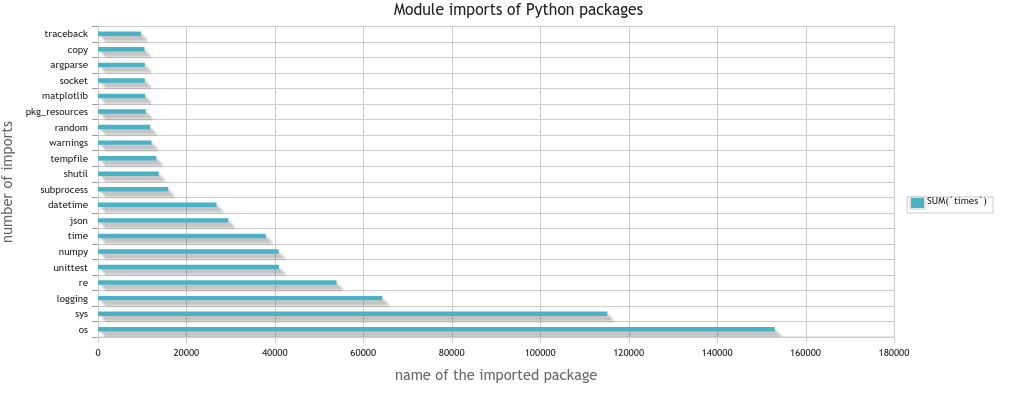
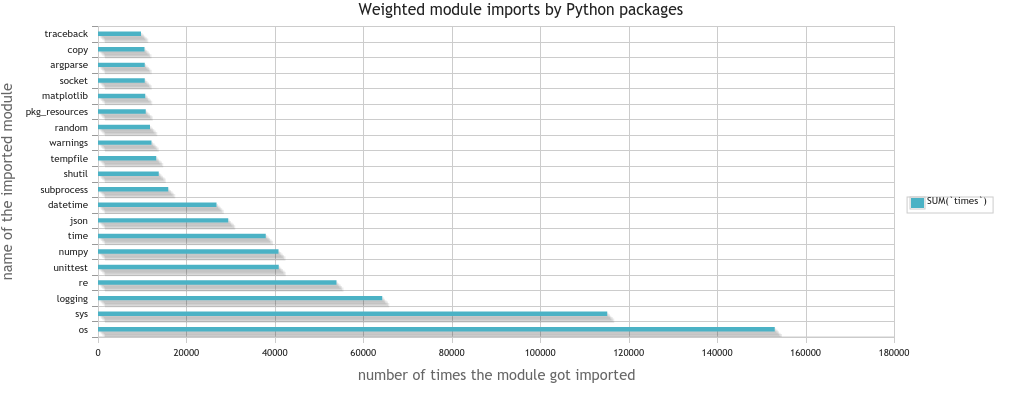
Update PyPI analysis article draft

Changed region(s): [[0.335, 0.0, 0.6699, 0.0609], [0.0, 0.2132, 0.0305, 0.7005], [0.335, 0.9442, 0.6395, 0.9746]]

diff --git a/_drafts/2015-12-07-analyzing-pypi-metadata-2.md b/_drafts/2015-12-07-analyzing-pypi-metadata-2.md
@@ -33,57 +33,8 @@ As I am pretty sure there are some malicious packages in the repository
 
 ## Most common single dependency
 
-
-
-### Weighted
-How often gets a single module included over all packages?
-
-```sql
-SELECT
-    `packages`.`name`,
-    SUM(`packages`)
-FROM
-    `dependencies`
-JOIN
-    `packages` ON `needs_package` = `packages`.`id`
-GROUP BY
-    `needs_package`
-ORDER BY
-    SUM(`times`) DESC
-LIMIT 20
-```
-
-Three minutes later I've got the result:
-
-
-{% caption align="aligncenter" width="500" alt="Number of imports of Python packages" text="Number of imports of Python packages" url="../images/2015/12/pypi-imported-packages.png" %}
-
-
-
-If I'm only interested in the packages which are on PyPI, hence not system
-packages, I execute the following query:
-
-```sql
-SELECT
-    `packages`.`name`,
-    SUM(`times`)
-FROM
-    `dependencies`
-JOIN
-    `packages` ON `needs_package` = `packages`.`id`
-WHERE
-    `on_pypi` = 1
-GROUP BY
-    `needs_package`
-ORDER BY
-    SUM(`times`) DESC
-LIMIT 20
-```
-
-which gives me about 2&nbsp;seconds later the following result:
-
-{% caption align="aligncenter" width="500" alt="Number of imports of Python packages, excluding system packages" text="Number of imports of Python packages, excluding system packages" url="../images/2015/12/pypi-imported-packages-excluding-system.png" %}
-
+One can see dependencies as being weighted by the number of times a package
+imports the package.
 
 ### Non-weighted
 
@@ -127,4 +78,146 @@ LIMIT 20
 
 which gives
 
-{% caption align="aligncenter" width="500" alt="This bar chart displays which Python modules (excluding system modules) get imported by most Python packages" text="This bar chart displays which Python modules (excluding system modules) get imported by most Python packages" url="../images/2015/12/pypi-imported-packages-excluding-system-count.png" %}
+<figure style="width: 510px" class="wp-caption aligncenter">
+    <img src="../images/2015/12/pypi-imported-packages-excluding-system-count.png" alt="This bar chart displays which Python modules (excluding system modules) get imported by most Python packages" />
+    <figcaption>This bar chart displays which Python modules (excluding system modules) get imported by most Python packages</figcaption>
+</figure>
+
+
+### Weighted
+How often gets a single module included over all packages?
+
+```sql
+SELECT
+    `packages`.`name`,
+    SUM(`times`)
+FROM
+    `dependencies`
+JOIN
+    `packages` ON `needs_package` = `packages`.`id`
+GROUP BY
+    `needs_package`
+ORDER BY
+    SUM(`times`) DESC
+LIMIT 20
+```
+
+2&nbsp;seconds later I've got the result:
+
+
+{% caption align="aligncenter" width="500" alt="Number of imports of Python packages" text="Number of imports of Python packages" url="../images/2015/12/pypi-imported-packages.png" %}
+
+
+
+If I'm only interested in the packages which are on PyPI, hence not system
+packages, I execute the following query:
+
+```sql
+SELECT
+    `packages`.`name`,
+    SUM(`times`)
+FROM
+    `dependencies`
+JOIN
+    `packages` ON `needs_package` = `packages`.`id`
+WHERE
+    `on_pypi` = 1
+GROUP BY
+    `needs_package`
+ORDER BY
+    SUM(`times`) DESC
+LIMIT 20
+```
+
+which gives me about 2&nbsp;seconds later the following result:
+
+{% caption align="aligncenter" width="500" alt="Number of imports of Python packages, excluding system packages" text="Number of imports of Python packages, excluding system packages" url="../images/2015/12/pypi-imported-packages-excluding-system.png" %}
+
+
+## Non-functional packages
+
+Although there are many packages for Python which are very usefull, there are
+also quite a lot which are not usefull at all. One possibility to identify such
+packages is by checking which packages get neither used by others nor use
+other packages
+
+```sql
+SELECT
+    `packages`.`id`, `name`
+FROM `packages`
+WHERE
+    `id` in (
+        SELECT DISTINCT
+            `dependencies`.`package`
+        FROM
+            dependencies)
+OR `id` in (
+        SELECT DISTINCT
+            `dependencies`.`needs_package`
+        FROM
+            `dependencies`)
+```
+
+This leads to the result that 54&thinspace;900 packages of 67&thinspace;582
+packages are not obviously crap. Or to write it in another way: 11&nbsp;682
+packages are crap. That is 17.5&thinspace;%. Too much, in my opinion.
+However, this might also be due to my crappy script not downloading / checking
+the downloaded files correctly.
+
+
+## Names
+
+One thing I was interested in while downloading all those packages was the
+question if there are malicious packages (either on purpose or by accident).
+One undesirable thing that could happen would be very similar names.
+
+
+### Prefixes
+
+Let's see how many packages are prefixes of other packages
+
+### Levensthein Distance
+
+### Non-Pythonic package names
+
+
+## Graph analysis
+
+Analyzing the dependency graph is quite a challenge. Or at least that was what
+I initiallly thought. This graph has about 67&thinspace;582 nodes and
+436&thinspace;980 edges. Quite a bit. Definitely much larger than what I have
+previously used.
+
+However, my friend Nilan who knows a lot about graphs send me a link to
+StackOverflow: [Visualizing Undirected Graph That's Too Large for GraphViz?](http://stackoverflow.com/q/238724/562769)
+
+This lead me to [Gephi](http://gephi.org/) and the
+[OpenOrd](https://marketplace.gephi.org/plugin/openord-layout/) layout plugin.
+It didn't work for the complete graph (see [issues/1207](https://github.com/gephi/gephi/issues/1207)), it worked after I removed the single nodes without edges.
+
+Now we can ask several standard questions about graphs:
+
+* How many connected components are there?
+* Are there any circles? (That would be bad... dependency graphs should not
+  have circles. Similar to family trees.)
+* Which are the most central nodes?
+
+### Gephi images
+
+TODO: 
+
+See also: [Features of Gephi](http://gephi.org/features/)
+
+
+## What could come next
+
+I could imagine to analyze the
+
+* package goodness with
+  [Cheesecake](https://pypi.python.org/pypi/Cheesecake),
+* PEP8 conformance,
+* Lines of code / documentation / whitespace
+* Usage of functions
+* Testing coverage
+* Look for URLs in the code and which are reachable / which are not
+* Look for non-Python files
